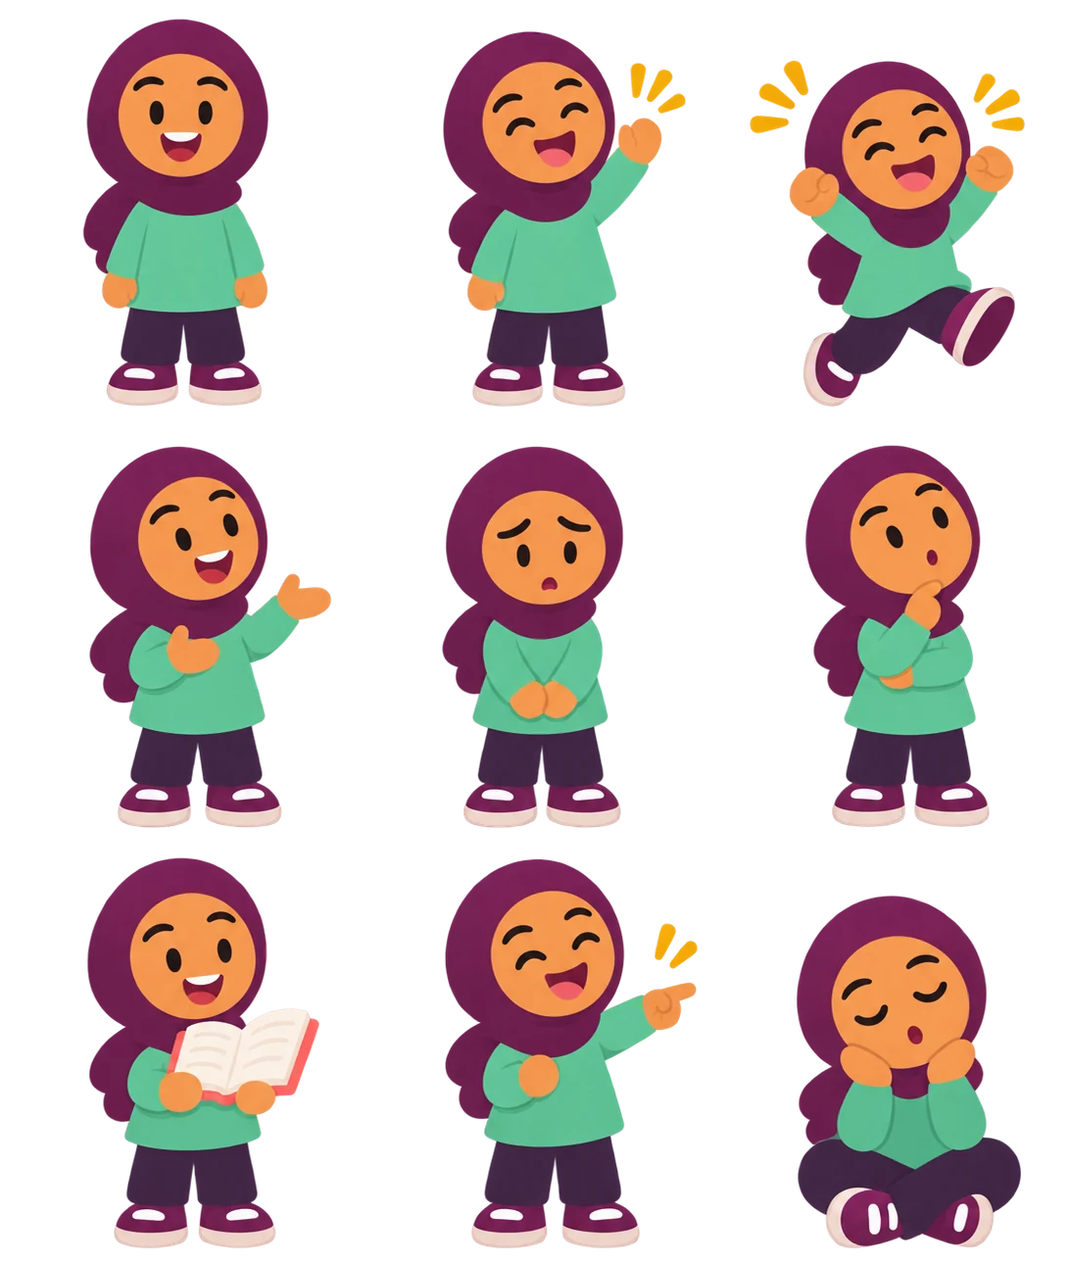
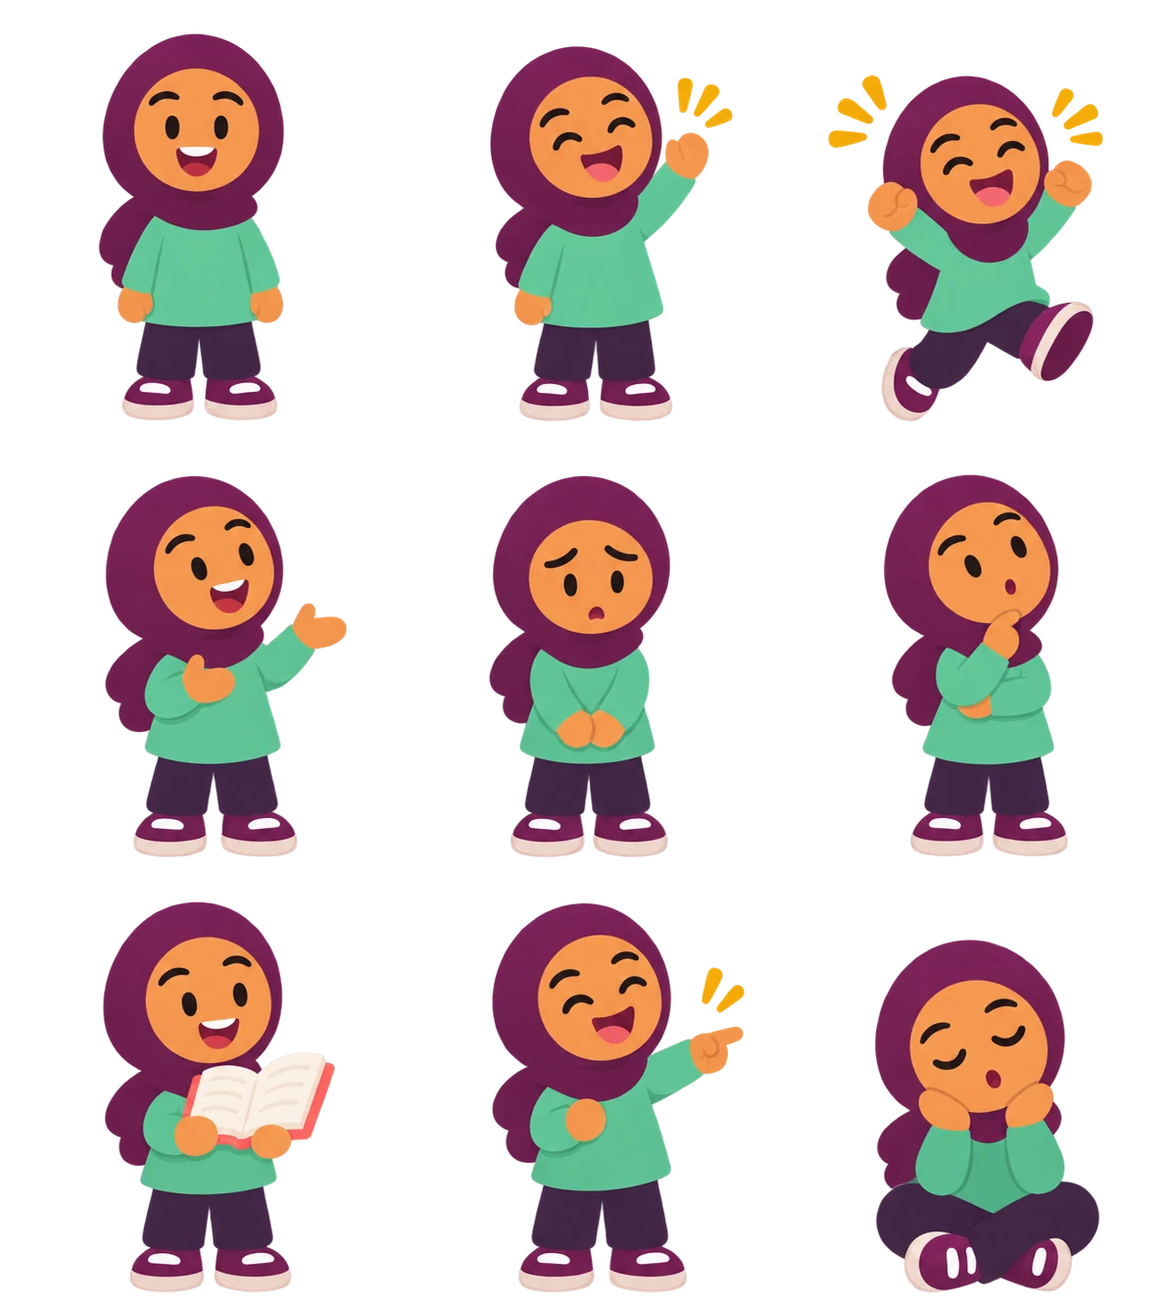
Sound on Safari, cleaner celebrations, clean speech bubbles
- Audio: the service worker no longer intercepts sound clips (Safari asks
  for byte ranges and stayed silent); the local server (record_server.py)
  now answers range requests; a clip that fails to load is retried once.
  audio-review.html opens with the 10 clips the speech check was least
  sure of.
- Combo celebration: bigger kid and text, soft glow instead of the rays;
  it still moves on to the next question by itself.
- Lesson complete: just the two buddies with soft shadows (no rays,
  sparkle icons or ground bar piling up). Zaid and Huda share one sheet
  cell size, so they are always drawn at the same scale.
- Speech bubble and START tails drawn as one clean outline.
- Animal cards read "Surah An-Naml 27:20". Service worker v41.

diff --git a/css/style.css b/css/style.css
@@ -184,7 +184,12 @@ img { -webkit-user-drag: none; user-select: none; }
   position: absolute; top: -56px; left: 50%; translate: -50% 0; background: var(--surface); color: var(--c); border: 2px solid var(--line);
   padding: 8px 16px; border-radius: 13px; font-weight: 900; font-size: 15px; letter-spacing: .8px; white-space: nowrap; animation: bubbleBob 1.3s ease-in-out infinite; z-index: 3; pointer-events: none;
 }
-.start-bubble::after { content: ''; position: absolute; bottom: -9px; left: 50%; width: 14px; height: 14px; background: var(--surface); border-right: 2px solid var(--line); border-bottom: 2px solid var(--line); transform: translateX(-50%) rotate(45deg); }
+/* Tail: outline triangle from the border's inner edge, fill triangle set in by exactly 2px (slope 10/15:
+ * tip rises 3.6px, sides move in 1.74px at the base). The outline also carries the bubble's 3px drop edge
+ * (the same triangle repeated 3px lower), so the tail and the bubble's thick bottom read as one shape. */
+.start-bubble::before, .start-bubble::after { content: ''; position: absolute; top: calc(100% - 1px); left: calc(50% - 10px); width: 20px; height: 19px; pointer-events: none; }
+.start-bubble::before { background: var(--line); clip-path: polygon(0 1px, 20px 1px, 20px 4px, 10px 19px, 0 4px); }
+.start-bubble::after { background: var(--surface); clip-path: polygon(1.74px 0, 18.26px 0, 10px 12.39px); }
 @keyframes bubbleBob { 0%, 100% { transform: translateY(0); } 50% { transform: translateY(-7px); } }
 .chest-node { width: 96px; height: 88px; position: relative; display: grid; place-items: center; transition: transform .1s; }
 .chest-node:hover { transform: scale(1.05) rotate(-2deg); }
@@ -297,10 +302,13 @@ img { -webkit-user-drag: none; user-select: none; }
 .speech { display: flex; align-items: flex-end; gap: 4px; max-width: 500px; }
 .speech .kid { width: 130px; flex: none; }
 .bubble { position: relative; border: 2px solid var(--line); border-radius: 18px; padding: 12px 16px; font-size: 17px; text-align: left; background: var(--surface); margin-bottom: 80px; }
-/* Two nested triangles mask the bubble border where the tail joins. */
-.bubble::before, .bubble::after { content: ''; position: absolute; top: 50%; transform: translateY(-50%); pointer-events: none; }
-.bubble::before { left: -24px; width: 34px; height: 30px; background: var(--line); clip-path: polygon(100% 0, 0 50%, 100% 100%); }
-.bubble::after { left: -19px; width: 31px; height: 30px; background: var(--surface); clip-path: polygon(100% 0, 0 50%, 100% 100%); }
+/* Speech tail: an outline triangle that ends exactly on the bubble's 2px border, and a fill triangle
+ * set in by exactly 2px (perpendicular to each edge) that opens the border where the tail joins.
+ * Geometry: tail 15px long to the border's inner edge, 24px tall there; slope 12/15, so the 2px inset
+ * moves the tip 3.2px in and each edge 2.56px in. Nothing reaches inside the bubble, so no stray lines. */
+.bubble::before, .bubble::after { content: ''; position: absolute; top: 50%; left: -15px; width: 16px; height: 24px; transform: translateY(-50%); pointer-events: none; }
+.bubble::before { background: var(--line); clip-path: polygon(0 12px, 15px 0, 15px 24px); }
+.bubble::after { background: var(--surface); clip-path: polygon(3.2px 12px, 16px 1.76px, 16px 22.24px); }
 
 /* ---------- tour ---------- */
 .tour-spot { position: fixed; z-index: 200; border-radius: 18px; box-shadow: 0 0 0 9999px rgba(20,16,40,.62); pointer-events: none; transition: left .26s cubic-bezier(.2,.8,.2,1), top .26s cubic-bezier(.2,.8,.2,1), width .26s cubic-bezier(.2,.8,.2,1), height .26s cubic-bezier(.2,.8,.2,1), border-radius .26s; }
@@ -458,13 +466,13 @@ img { -webkit-user-drag: none; user-select: none; }
 .sheet p .ar, .sheet p .qr { font-size: 1.4em; }
 
 .combo-burst { position: fixed; inset: 0; z-index: 60; display: grid; place-items: center; overflow: hidden; padding: 24px; background: var(--bg); }
-.combo-burst::before { content: ''; position: absolute; width: min(85vmin, 760px); aspect-ratio: 1; border-radius: 50%; background: repeating-conic-gradient(rgba(255,184,0,.45) 0deg 5deg, transparent 5deg 24deg); -webkit-mask: radial-gradient(circle, transparent 0 30%, #000 32% 65%, transparent 67%); mask: radial-gradient(circle, transparent 0 30%, #000 32% 65%, transparent 67%); animation: combo-rays 1.6s ease-out both; }
+.combo-burst::before { content: ''; position: absolute; width: min(110vmin, 980px); aspect-ratio: 1; border-radius: 50%; background: radial-gradient(circle, rgba(255,184,0,.26), rgba(255,184,0,.08) 42%, transparent 68%); animation: combo-glow 1.6s ease-out both; }
 .combo-burst-inner { position: relative; display: flex; flex-direction: column; align-items: center; gap: 8px; width: 100%; text-align: center; animation: burst 1.6s ease forwards; }
-.combo-burst .kid { width: min(65vw, 50vh, 460px); }
-.combo-burst b { font-size: clamp(40px, 8vw, 76px); line-height: 1.1; font-weight: 900; color: var(--orange); -webkit-text-stroke: 6px var(--bg); paint-order: stroke; display: flex; flex-wrap: wrap; gap: 8px; align-items: center; justify-content: center; }
-.combo-burst b .ico { width: clamp(52px, 8vw, 90px); height: clamp(52px, 8vw, 90px); }
+.combo-burst .kid { width: min(82vw, 60vh, 580px); }
+.combo-burst b { font-size: clamp(48px, 10vw, 96px); line-height: 1.1; font-weight: 900; color: var(--orange); -webkit-text-stroke: 6px var(--bg); paint-order: stroke; display: flex; flex-wrap: wrap; gap: 8px; align-items: center; justify-content: center; }
+.combo-burst b .ico { width: clamp(58px, 10vw, 110px); height: clamp(58px, 10vw, 110px); }
 @keyframes burst { 0% { opacity: 0; transform: translateY(24px) scale(.5); } 15% { opacity: 1; transform: scale(1.08); } 25% { transform: none; } 80% { opacity: 1; } 100% { opacity: 0; transform: translateY(-20px) scale(.95); } }
-@keyframes combo-rays { from { opacity: 0; transform: scale(.55) rotate(-20deg); } 25%, 80% { opacity: 1; } to { opacity: 0; transform: scale(1.15) rotate(12deg); } }
+@keyframes combo-glow { from { opacity: 0; transform: scale(.6); } 20%, 75% { opacity: 1; } to { opacity: 0; transform: scale(1.05); } }
 
 /* ---------- results ---------- */
 .result { max-width: 560px; margin: 0 auto; min-height: 100vh; display: flex; flex-direction: column; padding: 24px 20px calc(24px + env(safe-area-inset-bottom)); }
@@ -473,20 +481,13 @@ img { -webkit-user-drag: none; user-select: none; }
 .result .kid { width: clamp(110px, 19vh, 200px); }
 .lesson-finish { max-width: 600px; }
 .lesson-finish .result-body { gap: 12px; padding: 12px 0; }
-.finish-scene { position: relative; width: min(400px, 100%); height: clamp(190px, 30vh, 260px); flex: none; isolation: isolate; }
-.finish-scene::before { content: ''; position: absolute; inset: 4% 8% 0; border-radius: 50%; background: radial-gradient(circle, rgba(255,184,0,.2), rgba(255,184,0,.06) 48%, transparent 72%); animation: finish-glow 2.4s ease-in-out infinite; }
-.finish-rays { position: absolute; left: 50%; top: 48%; width: min(230px, 62%); aspect-ratio: 1; z-index: 0; background: repeating-conic-gradient(var(--gold) 0deg 3deg, transparent 3deg 30deg); -webkit-mask: radial-gradient(circle, transparent 0 41%, #000 42% 68%, transparent 69%); mask: radial-gradient(circle, transparent 0 41%, #000 42% 68%, transparent 69%); animation: finish-rays-pulse 2s ease-in-out infinite; }
-.finish-kids { position: absolute; inset: 0 0 10px; display: flex; align-items: flex-end; justify-content: center; gap: 2px; z-index: 1; }
-.finish-kids .kid { width: clamp(145px, 23vh, 190px); max-width: 49%; animation: finish-kid-in .7s cubic-bezier(.2,1.4,.4,1) both; }
+.finish-scene { position: relative; width: min(420px, 100%); height: clamp(190px, 30vh, 260px); flex: none; isolation: isolate; }
+.finish-scene::before { content: ''; position: absolute; inset: 0 2% -6%; border-radius: 50%; background: radial-gradient(closest-side, rgba(255,184,0,.16), rgba(255,184,0,.05) 60%, transparent); animation: finish-glow 2.6s ease-in-out infinite; }
+.finish-kids { position: absolute; inset: 0 0 12px; display: flex; align-items: flex-end; justify-content: center; gap: 22px; z-index: 1; }
+.finish-kids .kid { width: clamp(140px, 22vh, 180px); max-width: 46%; animation: finish-kid-in .7s cubic-bezier(.2,1.4,.4,1) both; }
+.finish-kids .kid::after { content: ''; position: absolute; left: 22%; right: 22%; bottom: -6px; height: 10px; border-radius: 50%; background: var(--platform); z-index: -1; }
 .finish-kids .kid:nth-child(2) { animation-delay: .14s; }
-.finish-kids .kid:nth-child(2) .kid-art { animation-delay: -.55s; }
-.finish-ground { position: absolute; left: 16%; right: 16%; bottom: 7px; height: 7px; border-radius: 99px; background: var(--line-d); z-index: 0; }
-.finish-spark { position: absolute; z-index: 2; pointer-events: none; animation: finish-twinkle 1.8s ease-in-out infinite; }
-.finish-spark .ico { width: 42px; height: 42px; }
-.finish-spark.one { left: 9%; top: 14%; }
-.finish-spark.two { right: 8%; top: 7%; animation-delay: -.65s; }
-.finish-spark.three { right: 19%; top: 42%; animation-delay: -1.2s; }
-.finish-spark.three .ico { width: 28px; height: 28px; }
+.finish-kids .kid:nth-child(2) .kid-art { animation-delay: -.18s; }
 .lesson-finish .finish-title { color: var(--gold-d); font-size: clamp(30px, 7vw, 40px); line-height: 1.1; animation: finish-title-in .55s cubic-bezier(.2,1.5,.4,1) .3s both; }
 :root[data-theme="dark"] .lesson-finish .finish-title { color: var(--gold); }
 .finish-message { margin: 0; max-width: 420px; color: var(--ink-2); font-size: 16px; font-weight: 800; line-height: 1.35; }
@@ -497,13 +498,11 @@ img { -webkit-user-drag: none; user-select: none; }
 .finish-details { margin: 0; display: flex; align-items: center; justify-content: center; gap: 5px; color: var(--muted); font-size: 14px; font-weight: 800; }
 .finish-details .ico { width: 20px; height: 20px; }
 @keyframes finish-kid-in { from { opacity: 0; transform: translateY(28px) scale(.8); } }
-@keyframes finish-glow { 50% { transform: scale(1.08); opacity: .65; } }
-@keyframes finish-rays-pulse { 0%, 100% { transform: translate(-50%, -50%) scale(.94); opacity: .8; } 50% { transform: translate(-50%, -50%) scale(1.08) rotate(8deg); opacity: 1; } }
-@keyframes finish-twinkle { 0%, 100% { transform: scale(.8) rotate(-12deg); opacity: .45; } 50% { transform: scale(1.18) rotate(12deg); opacity: 1; } }
+@keyframes finish-glow { 50% { transform: scale(1.05); opacity: .7; } }
 @keyframes finish-title-in { from { opacity: 0; transform: translateY(18px) scale(.9); } }
 @media (prefers-reduced-motion: reduce) {
-  .finish-scene::before, .finish-rays, .finish-kids .kid, .finish-spark, .lesson-finish .finish-title, .finish-stats .rtile { animation: none !important; }
-  .finish-rays { transform: translate(-50%, -50%); }
+  .combo-burst::before { animation: none; opacity: 0; }
+  .finish-scene::before, .finish-kids .kid, .lesson-finish .finish-title, .finish-stats .rtile { animation: none !important; }
 }
 .tiles3 { display: grid; grid-template-columns: repeat(3, 1fr); gap: 10px; width: 100%; }
 .rtile { border-radius: 16px; border: 2px solid var(--c); background: var(--c); overflow: hidden; animation: chipPop .5s cubic-bezier(.2,1.6,.4,1) backwards; }

diff --git a/tools/audio-review.html b/tools/audio-review.html
@@ -38,7 +38,7 @@ const marks = (() => { try { return JSON.parse(localStorage.getItem(KEY)) || {};
 const saveMarks = () => { try { localStorage.setItem(KEY, JSON.stringify(marks)); } catch (e) {} document.getElementById('n').textContent = Object.keys(marks).length; };
 const nameOf = Object.fromEntries(Object.entries(C.SAY_NAME).map(([k, v]) => [v.normalize('NFC'), k]));
 const letters = (t) => t.replace(/[ً-ٰٟ\s]/g, '').length;
-function who(t) { const s = SRC[t] || ''; return s.startsWith('qari') ? 'Qāriʾ recitation' : s.startsWith('teach') ? 'Teacher voice' : s.startsWith('hamed') || s.startsWith('zariyah') ? 'Native Arabic teacher' : s.startsWith('human') ? 'Human alphabet recording' : s.startsWith('joined') ? 'Joined letters' : s ? s : '—'; }
+function who(t) { const s = SRC[t] || ''; return s.startsWith('qari') ? 'Qāriʾ recitation' : s.startsWith('teach') ? 'Teacher voice' + ((/heard ([\d.]+)/.exec(s) || [])[1] ? ' · heard ' + Math.round(/heard ([\d.]+)/.exec(s)[1] * 100) + '%' : '') : s.startsWith('hamed') || s.startsWith('zariyah') ? 'Native Arabic teacher' : s.startsWith('human') ? 'Human alphabet recording' : s.startsWith('joined') ? 'Joined letters' : s ? s : '—'; }
 let cur, queue = [];
 function play(btn) {
   if (cur) cur.pause(); document.querySelectorAll('.playing').forEach((x) => x.classList.remove('playing'));
@@ -58,7 +58,10 @@ function card(t) {
   try { SILENT = await (await fetch('audio-silent.json', { cache: 'no-store' })).json(); } catch (e) {}
   const all = [...new Set(Object.keys(A).concat(SILENT))];
   const names = Object.values(C.SAY_NAME).map((x) => x.normalize('NFC'));
+  // clips the speech-recognition check heard least clearly when they were made: listen to these first
+  const unsure = all.filter((t) => { const m = /heard ([\d.]+)/.exec(SRC[t] || ''); return m && +m[1] < 0.75; }).sort();
   const sections = [
+    ['Listen to these first (least certain)', unsure],
     ['Letter names (alphabet order)', names],
     ['Syllables', all.filter((t) => !names.includes(t) && !t.includes(' ') && letters(t) <= 2).sort()],
     ['Practice words', all.filter((t) => !names.includes(t) && !t.includes(' ') && letters(t) > 2 && !(SRC[t] || '').startsWith('qari')).sort()],
@@ -68,7 +71,7 @@ function card(t) {
   document.getElementById('sections').innerHTML = sections.map(([h, list], i) => `<h2>${h} · ${list.length} <button class="ghost" data-sec="${i}" style="padding:4px 10px;font-size:12px;margin-left:8px">▶ play all</button></h2><div class="grid" data-grid="${i}">${list.map(card).join('')}</div>`).join('');
   document.querySelectorAll('.play[data-id]').forEach((b) => b.onclick = () => { queue = []; play(b); });
   document.querySelectorAll('[data-sec]').forEach((b) => b.onclick = () => { queue = [...document.querySelectorAll(`[data-grid="${b.dataset.sec}"] .play[data-id]`)]; play(queue.shift()); });
-  document.getElementById('all').onclick = () => document.querySelector('[data-sec="0"]').click();
+  document.getElementById('all').onclick = () => document.querySelector('[data-sec="1"]').click();
   document.getElementById('stop').onclick = () => { queue = []; if (cur) cur.pause(); };
   document.querySelectorAll('.item').forEach((it) => {
     const t = it.dataset.t, cb = it.querySelector('input[type=checkbox]'), tx = it.querySelector('input[type=text]');

diff --git a/js/app.js b/js/app.js
@@ -237,8 +237,17 @@
     if (id) {
       const a = new Audio(`assets/audio/${id}.mp3`);
       a.playbackRate = slow ? 0.65 : 1; a.preservesPitch = true;
-      if (btn) { btn.classList.add('playing'); a.onended = a.onpause = a.onerror = () => { if (curAudio === a || !curAudio) btn.classList.remove('playing'); }; }
-      a.play().catch(() => { if (btn) btn.classList.remove('playing'); });
+      const done = () => { if (btn && (curAudio === a || !curAudio)) btn.classList.remove('playing'); };
+      if (btn) { btn.classList.add('playing'); a.onended = a.onpause = done; }
+      // A clip that fails to load (a dropped connection, a file still syncing) is fetched once more
+      // before giving up, so a hiccup never leaves the child without the sound.
+      let retried = false;
+      a.onerror = () => {
+        if (retried || curAudio !== a) { done(); return; }
+        retried = true; a.src = `assets/audio/${id}.mp3?retry=${Date.now()}`;
+        a.play().catch(done);
+      };
+      a.play().catch((e) => { if (e && e.name === 'NotAllowedError') done(); });
       curAudio = a; return;
     }
   }
@@ -540,7 +549,7 @@
     pop.querySelector('.btn').onclick = () => { if (!unlocked) return; Sfx.play('tap'); startLesson(f); };
   }
   function animalCard(a) {
-    return `<div class="animal-card">${QQ_ANIMALS.svg(a.key, { state: 'happy' })}<div><span class="ac-name">${esc(a.name)} · <span class="ar">${esc(a.ar)}</span></span><p>${esc(a.fact)}</p><small>Qur’an ${esc(a.refLabel)}</small></div></div>`;
+    return `<div class="animal-card">${QQ_ANIMALS.svg(a.key, { state: 'happy' })}<div><span class="ac-name">${esc(a.name)} · <span class="ar">${esc(a.ar)}</span></span><p>${esc(a.fact)}</p><small>Surah ${esc(a.refLabel)}</small></div></div>`;
   }
   function animalPopup(key) {
     const a = QQ_ANIMALS.LIST.find((x) => x.key === key); if (!a) return;
@@ -1135,12 +1144,7 @@
     const mm = `${Math.floor(r.secs / 60)}:${String(r.secs % 60).padStart(2, '0')}`;
     const friend = S.buddy === 'zaid' ? 'huda' : 'zaid';
     shellScreen(`<div class="finish-scene">
-        <span class="finish-rays" aria-hidden="true"></span>
-        <span class="finish-spark one" aria-hidden="true">${IMG('sparkles')}</span>
-        <span class="finish-spark two" aria-hidden="true">${IMG('sparkles')}</span>
-        <span class="finish-spark three" aria-hidden="true">${IMG('sparkles')}</span>
         <div class="finish-kids">${M.kid(S.buddy, 'happy')}${M.kid(friend, 'happy')}</div>
-        <span class="finish-ground" aria-hidden="true"></span>
       </div>
       <h1 class="finish-title">${practice ? 'Hearts refilled!' : 'Lesson complete!'}</h1>
       <p class="finish-message">${practice ? 'Your hearts are full and you are ready to keep learning.' : r.perfect ? 'Perfect work — every answer right!' : 'You did it! Every step makes you a stronger reader.'}</p>

diff --git a/sw.js b/sw.js
@@ -1,5 +1,5 @@
 // Keep artwork visible through brief network interruptions and offline use.
-const CACHE = 'qalam-v39';
+const CACHE = 'qalam-v41';
 const PREFIX = 'qalam-v';
 const FILES = ['./', 'index.html', 'teacher.html', 'css/style.css', 'css/mascot.css', 'css/animals.css', 'js/arabic-text.js', 'js/content.js', 'js/audio-manifest.js', 'js/logo.js', 'js/logo-component.js', 'assets/logo/qalam-icon.svg', 'assets/characters/zaid-poses.webp', 'assets/characters/huda-poses.webp', 'assets/animals/hoopoe-poses.webp', 'assets/animals/bee-poses.webp', 'assets/animals/ant-poses.webp', 'assets/animals/camel-poses.webp', 'assets/animals/elephant-poses.webp', 'assets/animals/whale-poses.webp', 'assets/animals/cow-poses.webp', 'js/animals.js', 'js/mascot.js', 'js/app.js', 'manifest.webmanifest', 'icons/icon-192.png', 'icons/icon-512.png', 'assets/icons/bell.png', 'assets/icons/bolt.png', 'assets/icons/book.png', 'assets/icons/books.png', 'assets/icons/bulb.png', 'assets/icons/construction.png', 'assets/icons/crown.png', 'assets/icons/fire.png', 'assets/icons/gear.png', 'assets/icons/gem.png', 'assets/icons/glowing-star.png', 'assets/icons/grad.png', 'assets/icons/heart.png', 'assets/icons/house.png', 'assets/icons/hundred.png', 'assets/icons/key.png', 'assets/icons/lock.png', 'assets/icons/magnifier.png', 'assets/icons/medal.png', 'assets/icons/moon.png', 'assets/icons/nose.png', 'assets/icons/notes.png', 'assets/icons/party.png', 'assets/icons/pen.png', 'assets/icons/practice.png', 'assets/icons/rocket.png', 'assets/icons/scroll.png', 'assets/icons/seedling.png', 'assets/icons/shield.png', 'assets/icons/shop.png', 'assets/icons/snowflake.png', 'assets/icons/sparkles.png', 'assets/icons/speaker.png', 'assets/icons/star.png', 'assets/icons/stop.png', 'assets/icons/stopwatch.png', 'assets/icons/sun.png', 'assets/icons/target.png', 'assets/icons/thread.png', 'assets/icons/trophy.png', 'assets/icons/turtle.png'];
 const scope = new URL(self.registration.scope);
@@ -21,6 +21,9 @@ self.addEventListener('fetch', (e) => {
   const req = e.request;
   const url = new URL(req.url);
   if (req.method !== 'GET' || url.origin !== scope.origin || !url.pathname.startsWith(scope.pathname)) return;
+  // Sound clips go straight to the browser. Safari asks for audio in byte ranges and will not play a
+  // service-worker reply that ignores them, so handling audio here made the game silent on Safari/iOS.
+  if (req.headers.has('range') || req.destination === 'audio' || /\.(?:mp3|m4a|wav|ogg)$/i.test(url.pathname)) return;
   const isImage = /\.(?:png|svg|webp|jpe?g)$/i.test(url.pathname);
   if (isImage) {
     const update = fetch(req, { cache: 'no-cache' }).then(async (r) => {

diff --git a/css/mascot.css b/css/mascot.css
@@ -1,8 +1,8 @@
 /* @atlas:begin (generated by tools/pack_poses.py) */
 .kid[data-buddy="zaid"] { --atlas: url('../assets/characters/zaid-poses.webp'); aspect-ratio: 396 / 445; }
 .kid.head-only[data-buddy="zaid"] .kid-art { background-size: 596.2% 670.0%; background-position: 9.95% 2.43%; }
-.kid[data-buddy="huda"] { --atlas: url('../assets/characters/huda-poses.webp'); aspect-ratio: 364 / 430; }
-.kid.head-only[data-buddy="huda"] .kid-art { background-size: 556.9% 657.9%; background-position: 9.29% 0.43%; }
+.kid[data-buddy="huda"] { --atlas: url('../assets/characters/huda-poses.webp'); aspect-ratio: 396 / 445; }
+.kid.head-only[data-buddy="huda"] .kid-art { background-size: 605.8% 680.8%; background-position: 10.00% 1.73%; }
 /* @atlas:end */
 /* Complete, transparent illustrated poses from assets/characters. Each sheet is a 3 × 3 atlas.
  * The entire character moves as one image, so joints and clothes cannot separate in motion.

diff --git a/tools/record_server.py b/tools/record_server.py
@@ -39,6 +39,7 @@ class Handler(SimpleHTTPRequestHandler):
 
     def end_headers(self):
         self.send_header('Cache-Control', 'no-store')
+        self.send_header('Accept-Ranges', 'bytes')
         super().end_headers()
 
     def send_json(self, code, obj):
@@ -48,7 +49,30 @@ class Handler(SimpleHTTPRequestHandler):
     def do_GET(self):
         if urlparse(self.path).path == '/api/human':
             return self.send_json(200, read_human())
+        rng = self.headers.get('Range')
+        if rng and self.send_range(rng): return
         return super().do_GET()
+
+    def send_range(self, rng):
+        """Byte-range replies (206). Safari and iOS only play audio from servers that support them."""
+        path = self.translate_path(self.path)
+        m = re.match(r'bytes=(\d*)-(\d*)$', rng.strip())
+        if not m or not os.path.isfile(path): return False
+        size = os.path.getsize(path)
+        start, end = m.group(1), m.group(2)
+        if start == '': start, end = max(0, size - int(end or 0)), size - 1   # suffix range: last N bytes
+        else: start, end = int(start), min(int(end) if end else size - 1, size - 1)
+        if start >= size or start > end:
+            self.send_response(416); self.send_header('Content-Range', f'bytes */{size}'); self.end_headers(); return True
+        self.send_response(206)
+        self.send_header('Content-Type', self.guess_type(path))
+        self.send_header('Accept-Ranges', 'bytes')
+        self.send_header('Content-Range', f'bytes {start}-{end}/{size}')
+        self.send_header('Content-Length', str(end - start + 1))
+        self.end_headers()
+        with open(path, 'rb') as f:
+            f.seek(start); self.wfile.write(f.read(end - start + 1))
+        return True
 
     def do_POST(self):
         u = urlparse(self.path)

diff --git a/tools/pack_poses.py b/tools/pack_poses.py
@@ -63,7 +63,7 @@ def anchor(p, kind):
     return float(xs.mean()), float(my1)
 
 
-def build(name, kind, cols, rows):
+def measure(name, kind, cols, rows):
     im = np.array(Image.open(os.path.join(SRC, name + '-poses.png')).convert('RGBA'))
     ps = poses(im, cols, rows)
     ext = []
@@ -74,6 +74,12 @@ def build(name, kind, cols, rows):
     half = int(np.ceil(max(max(e[0], e[1]) for e in ext))) + PAD
     up = int(np.ceil(max(e[2] for e in ext))) + PAD
     down = int(np.ceil(max(e[3] for e in ext))) + PAD
+    return ps, (half, up, down)
+
+
+def build(name, kind, cols, rows, cell=None):
+    ps, own = measure(name, kind, cols, rows)
+    half, up, down = cell or own
     cw, ch = 2 * half, up + down
     sheet = Image.new('RGBA', (cw * cols, ch * rows), (0, 0, 0, 0))
     for k, p in enumerate(ps):
@@ -114,7 +120,9 @@ def put(path, rules):
     open(path, 'w').write(s)
 
 
-atlas = {n: build(n, *v) for n, v in SHEETS.items()}
+# Zaid and Huda share one cell size, so at the same CSS width they are drawn at the same scale.
+kid_cell = tuple(max(c) for c in zip(*(measure(n, *SHEETS[n])[1] for n in ('zaid', 'huda'))))
+atlas = {n: build(n, *v, cell=kid_cell if v[0] == 'characters' else None) for n, v in SHEETS.items()}
 kids, animals = [], []
 for n, (kind, cols, rows) in SHEETS.items():
     a = atlas[n]; url = f"url('../assets/{kind}/{n}-poses.webp')"
